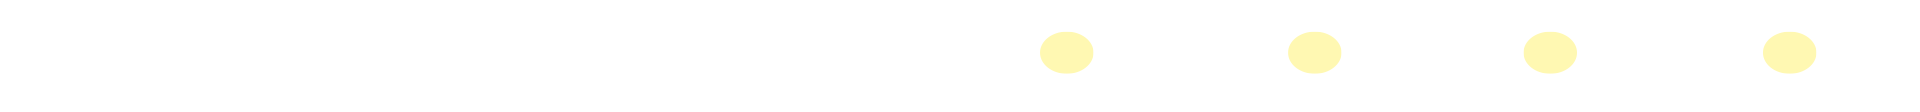
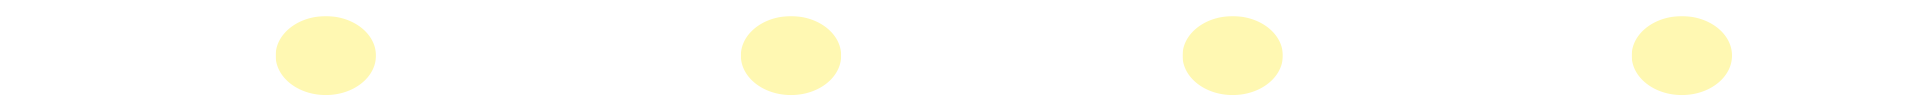
top fixed

diff --git a/css/main.css b/css/main.css
@@ -46,7 +46,7 @@ body{
 	position: absolute;
 	z-index: 2;
 }
-.R_text{
+/*.R_text{
 	width:100%;
 	padding-bottom: 5.83%;
 	background-image: url("../img/03.png");
@@ -60,6 +60,15 @@ body{
 	right:0;
 	position: fixed;
 	z-index: 1;
+}*/
+.bg_look{
+	background-image: url("../img/03.png");
+	-moz-background-size:cover;
+	-webkit-background-size:cover;
+	-o-background-size:cover;
+	background-size:cover;
+	background-repeat:no-repeat;
+	background-position:center center;
 }
 #about h4{
 	border-bottom:1.5px solid #d3c6ad;
@@ -289,7 +298,7 @@ footer{
 }
 
 
-@media only screen and (min-width: 577px) and (max-width: 768px) {
+@media only screen and (min-width: 720px) and (max-width: 1024px) {
 		#about h4{
 			border-bottom:1px solid #d3c6ad;
 		}
@@ -299,8 +308,8 @@ footer{
 		.top{
 			width: 100%;
 		}
-		.R_text{
-			display: none;
+		.bg_look{
+			background-image: url("");
 		}
 		.img_04{
 			width: 100%;
@@ -336,7 +345,7 @@ footer{
 			padding-bottom: 3.5%;
 		}
 }
-@media only screen and (max-width:576px){
+@media only screen and (max-width:720px){
 		#load{
 			width: 100%;
 			/*height: 100vh;*/
@@ -348,8 +357,8 @@ footer{
 			top:67%;
 			left: 0;
 		}
-		.R_text{
-			display: none;
+		.bg_look{
+			background-image: url("");
 		}
 		#about h4{
 			border-bottom:1px solid #d3c6ad;

diff --git a/index.html b/index.html
@@ -25,15 +25,15 @@
 
 	<!-- Banner -->
 	<section>
-			<div id="load">
-	<div class="lds-ripple"><div></div><div></div></div>
+	<div id="load">
+		<div class="lds-ripple"><div></div><div></div></div>
 	</div>
 		<!-- 背景圖 -->
 		<div class="banner"></div>
 		<!-- 左邊大文字 -->
 		<div class="L_text"></div>
 		<!-- 列表小圓點 -->
-		<div class="R_text"></div>
+		<!-- <div class="R_text"></div> -->
 		<!-- 上方列表 -->
 		<nav class="navbar navbar-expand-lg bg-transparents top">
 		<div class="container-fluid">
@@ -41,7 +41,8 @@
 			      <span class="navbar-toggler-icon"></span>
 			    </button>
 			    <div class="collapse navbar-collapse justify-content-end pt-md-1" id="navbarNavAltMarkup">
-			      <div class="navbar-nav">
+			      <div class="navbar-nav bg_look">
+
 			        <a class="nav-link active mx-md-5 text-white" aria-current="page" href="#">首頁</a>
 			        <a class="nav-link mx-md-5 text-white" href="#about">關於我</a>
 			        <a class="nav-link mx-md-5 text-white" href="#work">作品集</a>
